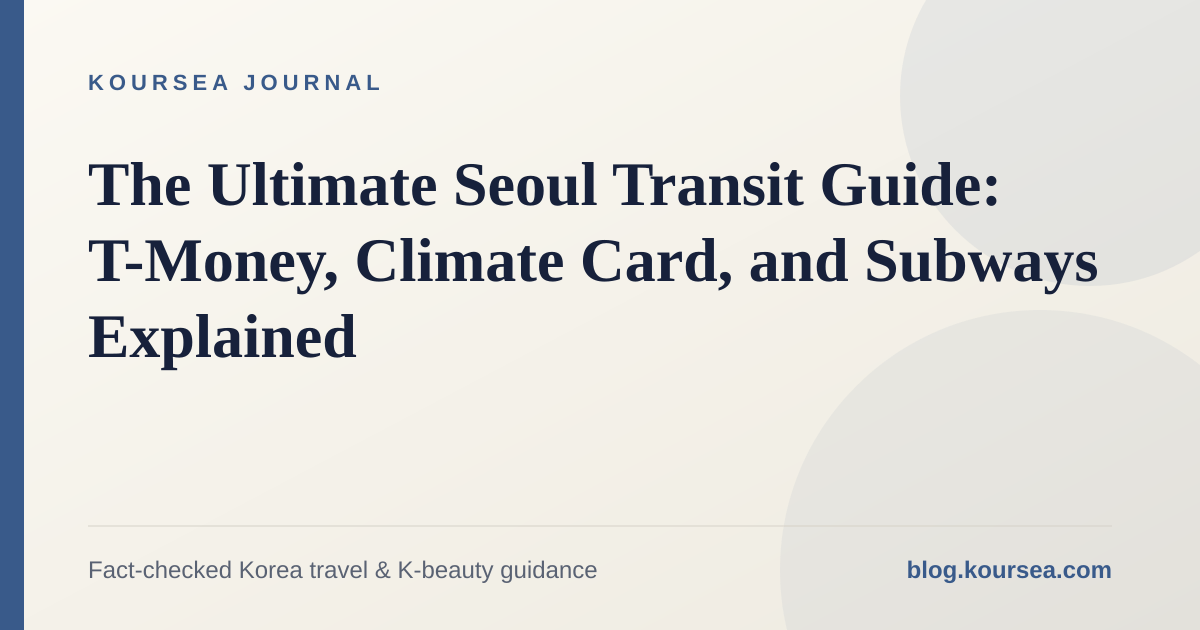
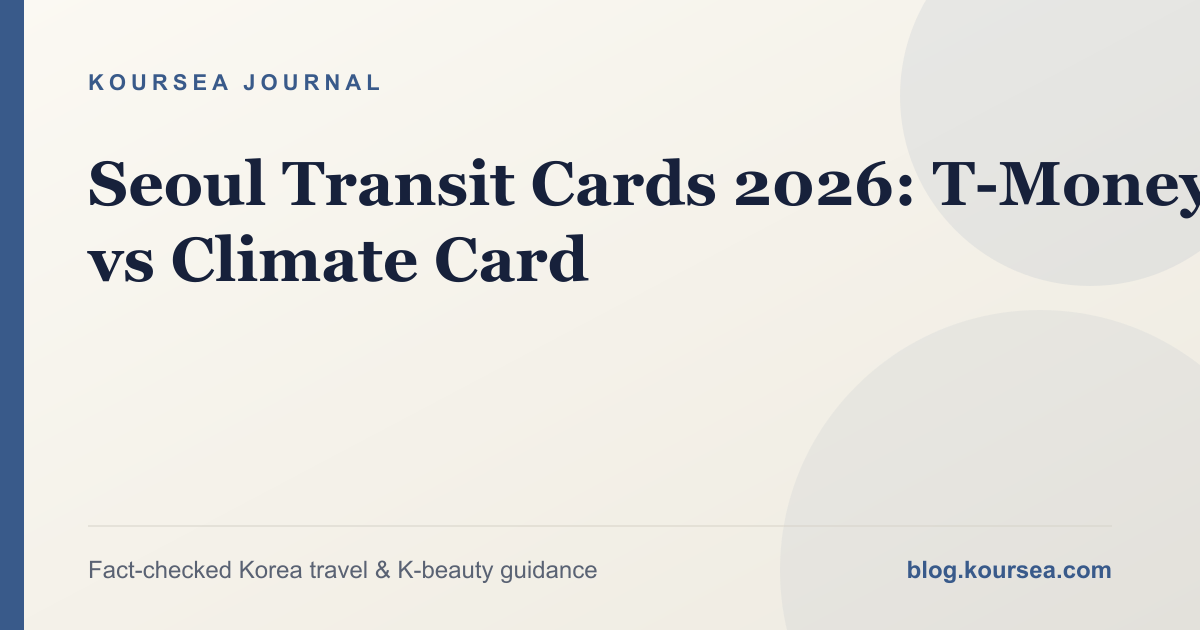
Expand airport and Seoul transit guides (#82)

diff --git a/src/content/posts/seoul-subway-transit-card-guide.md b/src/content/posts/seoul-subway-transit-card-guide.md
@@ -1,8 +1,8 @@
 ---
-title: "The Ultimate Seoul Transit Guide: T-Money, Climate Card, and Subways Explained"
-description: "Compare T-Money, Seoul Climate Card and WOWPASS, then learn transfer rules, express trains and practical subway etiquette for a smoother trip."
+title: "Seoul Transit Cards 2026: T-Money vs Climate Card"
+description: "Compare T-Money, the Seoul Climate Card tourist pass and WOWPASS, including 2026 prices, coverage limits, overseas-card loading and transfer rules."
 pubDate: 2026-09-03T10:25:49Z
-updatedDate: 2026-09-03T10:25:49Z
+updatedDate: 2026-09-28
 tags:
   - Seoul Travel
   - Public Transit
@@ -13,23 +13,21 @@ author: "Koursea Editorial"
 
 faq:
   - question: "What is the basic difference between T-Money and the Climate Card?"
-    answer: "The guide presents standard T-Money as a general transit card and the Climate Card as a tourist pass option for eligible Seoul public-transport use; check the guide's comparison before choosing."
-  - question: "How do free transfers work in Seoul?"
-    answer: "The guide calls free transfers the golden rule of the Seoul system and advises tapping correctly and following the transfer rules rather than exiting the network unnecessarily."
+    answer: "T-Money is a stored-value card used trip by trip across a wider network. The tourist Climate Card is a fixed-period pass for eligible transport within its published Seoul coverage, so it is useful only when your route stays inside that service area."
+  - question: "How do transfer discounts work in Seoul?"
+    answer: "Tap out and board the next eligible service within 30 minutes, or 60 minutes from 9 PM to 7 AM. Up to four transfers can qualify, but distance charges and the highest applicable base fare may still apply."
   - question: "How can I avoid boarding the wrong subway direction?"
     answer: "Use station numbers and platform signs, check fast-transfer markings, and ask staff through the help bell if you realize you are on the wrong side of the gates."
   - question: "Can I board with an open drink?"
-    answer: "The guide says uncovered hot coffee, cups with straws, and unsealed food containers are barred from public buses, so finish or seal drinks before boarding."
+    answer: "Seoul's open-container restriction cited here applies to public buses. Finish or securely seal drinks before boarding and follow any additional operator instructions on the subway."
 coverImage: "/images/blog/seoul-subway-transit-guide.jpg"
 ---
 
-# The Ultimate Seoul Transit Guide: T-Money, Climate Card, and Subways Explained
+# Seoul Transit Cards 2026: T-Money vs Climate Card
 
-Seoul boasts one of the most efficient, punctual, and cleanest public transportation systems in the world. With over 20 subway lines, hundreds of interconnected bus routes, and regional rail networks connecting directly into neighboring cities, getting around without a car is exceptionally easy.
+Seoul's subway and bus network is extensive, but the payment products do different jobs. A T-Money card charges each ride, the short-term Climate Card covers eligible Seoul transport for a fixed period, and WOWPASS combines a payment wallet with a separate T-Money transit balance. Choosing from the logo alone can leave you with the wrong coverage or an empty transit balance.
 
-However, international visitors frequently run into payment bottlenecks, confusion between competing transit pass systems, and strict transfer rules.
-
-Here is the definitive guide to conquering Seoul’s public transit network seamlessly.
+This guide uses Seoul Metropolitan Government information checked on September 28, 2026. Fares, eligible lines, vending-machine payment methods, and pass products can change, so verify the linked live pages before travel.
 
 Once you know which card to get, Koursea's Transit Card Cheat Sheet and Subway Direction Checker give you the fast, no-explanation version for when you're actually at the gate — no login required.
 
@@ -39,28 +37,44 @@ Once you know which card to get, Koursea's Transit Card Cheat Sheet and Subway D
 
 Before boarding your first train, you must pick the right payment mechanism. Credit cards without local Korean transit chips cannot simply be tapped at turnstiles.
 
-- **Standard T-Money Card:**
+- **Standard T-Money card:**
   - **Best For:** Most short-stay tourists planning a flexible itinerary across multiple cities (Seoul, Busan, Jeju).
-  - **How It Works:** A reloadable prepaid transit card. The physical card costs around 3,000 to 5,000 KRW. You must reload it using **physical Korean cash** at convenience stores (CU, GS25, 7-Eleven) or station vending machines.
-  - **Coverage:** Valid nationwide on subways, city buses, and even inside taxis.
-- **Climate Card (기후동행카드 - Tourist Pass):**
+  - **How It Works:** A reloadable stored-value transit card. Card prices vary by design and seller, and value is deducted by use. Seoul's guide lists convenience stores and metropolitan-area station service centers as retail locations.
+  - **Coverage:** Widely used on participating subways and buses and at other T-Money merchants, but the exact route or vehicle must still accept it.
+- **Climate Card short-term tourist pass (기후동행카드):**
   - **Best For:** Heavy transit users staying inside Seoul for 1 to 7 days.
-  - **Options:** Available in 1-day (5,000 KRW), 2-day (8,000 KRW), 3-day (10,000 KRW), and 5-day (15,000 KRW) versions.
-  - **Limitation:** Only valid on Seoul-area subways and Seoul municipal buses. It is **not** valid on the Shinbundang Line or transit systems outside the Seoul capital boundary (such as Incheon or Suwon).
+  - **Options:** The official prices are 1 day ₩5,000, 2 days ₩8,000, 3 days ₩10,000, 5 days ₩15,000, and 7 days ₩20,000. The physical card is purchased separately.
+  - **Important timing rule:** The short-term validity period begins when the card is charged; it cannot be loaded in advance for a later travel date.
+  - **Limitation:** Coverage is route-specific. It does not simply mean every train or bus inside the capital region is included. Use the official coverage search for airport routes, privately operated lines, and trips extending beyond Seoul.
 - **WOWPASS:**
-  - **Best For:** Travelers wanting an all-in-one debit card with an integrated T-Money chip. You can exchange foreign currency directly into KRW via dedicated airport/hotel kiosks, but note that the T-Money transit balance must still be reloaded separately with cash.
+  - **Best For:** Travelers wanting a prepaid payment wallet and an integrated T-Money function on one physical card.
+  - **Important:** The payment wallet and T-Money transit value are separate balances. Loading the payment wallet does not automatically fund the transit side.
+
+> **2026 product change:** Seoul discontinued recharging the old 30-day prepaid Climate Card after August 31, 2026 and launched a resident-focused Climate Pass. The short-term 1-, 2-, 3-, 5-, and 7-day tourist passes continue. Visitors should not confuse the resident Climate Pass with the tourist short-term pass.
+
+## Quick decision table
+
+| Your trip | Usually the better starting point | Why |
+| --- | --- | --- |
+| Seoul plus Busan, Jeju, Incheon, or Suwon | T-Money | Stored value is more flexible across regions and operators |
+| Several eligible Seoul rides per day for 1–7 days | Climate Card short-term pass | Fixed-period travel can be convenient if every planned route is covered |
+| Shopping payment wallet plus transit on one card | WOWPASS with T-Money balance | One physical card, but two balances that must be managed separately |
+| One or two subway rides | T-Money or single-journey tickets | A time pass may not recover its purchase price |
+
+List your airport transfer and every out-of-Seoul day before choosing. A pass that fails on one expensive route can erase the expected savings.
 
 For Apple Pay acceptance, foreign-card kiosk declines, and the currency-exchange differences between WOWPASS and Namane, continue with our [Korea Payment Mechanics Guide](/posts/korea-payment-wowpass-vs-tmoney-applepay-2026/).
 
 ---
 
-## 2. The Golden Rule of Free Transfers
+## 2. How Transfer Discounts Work
 
-Seoul uses an integrated distance-based fare structure. You can transfer between subways and buses up to **4 times** without paying a new base fare, provided you follow these rules:
+Seoul uses an integrated distance-based fare structure. The official rules allow up to **four transfers, or five boardings**, when the trip and card use qualify. This is a transfer discount, not a promise that every next ride costs zero; distance charges and the highest applicable base fare can still apply.
 
 1. **Always Tag In and Tag Out:** Tap your card when entering the subway or boarding a bus, and **always tap again when exiting**. Forgetting to tap out on a bus cancels your transfer discount and charges the maximum distance penalty.
 2. **The 30-Minute Window:** Your transfer must occur within **30 minutes** of tapping out from the previous vehicle (extended to 60 minutes between 9:00 PM and 7:00 AM).
 3. **No Same-Route Transfers:** Transferring between two buses of the exact same route number does not qualify as a discounted transfer.
+4. **Use One Card Consistently:** The system must be able to connect the rides. Multi-passenger handling has additional restrictions, and subway transfers do not support multi-passenger boarding in the same way as buses.
 
 ---
 
@@ -71,10 +85,28 @@ Seoul uses an integrated distance-based fare structure. You can transfer between
 - **Help Bell for Wrong Platforms:** If you swipe your card and realize you entered the wrong platform direction on an older line without an internal overpass, look for the wheelchair gate. Press the **Help Bell** on the side; station staff will immediately unlock the gate so you can cross over without being charged twice.
 - **Express Trains vs. All-Stop Trains:** Lines 9 and the AREX (Airport Railroad) operate both Express (급행) and All-Stop (일반) trains on identical tracks. Check the digital overhead monitors—Express trains skip minor stations, which can cut travel times in half.
 
+Seoul's official fare page lists the adult subway card base fare at ₩1,550 as of June 28, 2025, with distance surcharges after the base range. Treat that as a dated reference, not a guaranteed future fare. Check the station display or official page for the fare on your travel date.
+
 ---
 
 ## 4. Key Rules of Etiquette
 
 - **Reserved Seating:** The brightly marked seats at the ends of subway cars are strictly reserved for the elderly, disabled, and pregnant women. Even on packed trains, locals leave these seats open.
 - **Keep Luggage Secure:** When traveling with rolling suitcases during rush hour (8:00–9:00 AM and 6:00–7:00 PM), keep bags tucked tightly between your feet to allow smooth passenger movement.
-- **No Open Beverages:** By municipal regulation, passengers holding uncovered hot coffees, cups with straws, or unsealed food containers are barred from boarding public buses. Finish your drink before hopping on.
+- **No Open Beverages on buses:** Seoul's restriction cited here applies to public buses: drivers can refuse uncovered hot drinks, cups with straws, and other spill-prone open containers. Finish or securely seal the drink before boarding.
+
+## Buying and loading with an overseas card
+
+Do not assume every machine accepts the same payment method. Seoul says physical Climate Cards and short-term passes can be purchased or recharged with international credit or debit cards at supported new station kiosks. That does not mean every T-Money reload point, convenience store, or older machine accepts an overseas card.
+
+Keep a small Korean-won cash backup until your transit card is working. If a machine rejects the card, look for the international-card logo, try an official station service point, or ask staff rather than repeatedly triggering bank fraud controls.
+
+## Official sources
+
+Checked on September 28, 2026:
+
+- [Seoul Metropolitan Government: Climate Card prices, coverage, and purchase rules](https://english.seoul.go.kr/policy/transportation/climate-card/)
+- [Seoul Metropolitan Government: 2026 Climate Card and Climate Pass transition](https://english.seoul.go.kr/smg-steps-up-outreach-ahead-of-climate-pass-launch-on-september-1-encouraging-early-card-conversion/)
+- [Seoul Metropolitan Government: public transportation and tourist card guidance](https://english.seoul.go.kr/service/movement/public-transportation/)
+- [Seoul Metropolitan Government: transfer rules and accepted card types](https://english.seoul.go.kr/policy/transportation/modes-of-transport/)
+- [Seoul Metropolitan Government: subway fares](https://english.seoul.go.kr/policy/transportation/modes-of-transport/subway/)

diff --git a/src/content/posts/incheon-airport-terminal-1-vs-terminal-2-airlines.md b/src/content/posts/incheon-airport-terminal-1-vs-terminal-2-airlines.md
@@ -1,8 +1,8 @@
 ---
-title: "Incheon Airport Terminal 1 vs Terminal 2: Airline Check Guide"
+title: "Incheon Airport T1 vs T2: Check Your Airline"
 description: "Check whether your Incheon Airport flight uses Terminal 1, Terminal 2, or the Concourse, and avoid codeshare and transfer mistakes."
 pubDate: 2026-09-09
-updatedDate: 2026-09-09
+updatedDate: 2026-09-28
 tags: ["Incheon Airport", "Terminal 1", "Terminal 2", "Airlines", "Airport Planning"]
 canonicalUrl: "https://blog.koursea.com/posts/incheon-airport-terminal-1-vs-terminal-2-airlines/"
 author: "Koursea Editorial"
@@ -13,19 +13,19 @@ faq:
   - question: "Which carriers does the guide list for Terminal 2?"
     answer: "It lists Korean Air, Asiana Airlines, Jin Air, Air Seoul, Air Busan, Delta Air Lines, and other carriers shown in its current terminal overview."
   - question: "Which carriers does the guide list for Terminal 1?"
-    answer: "It lists Jeju Air, T'way Air, Eastar Jet, Air Premia, PARATA AIR, and other listed foreign carriers in its current overview."
+    answer: "The current official overview lists Jeju Air, Trinity Airways, Eastar Jet, Air Premia, PARATA AIR, and other foreign carriers, but travelers must still verify the exact operating flight."
   - question: "What is the Concourse?"
     answer: "The guide explains that Concourse gates are reached from Terminal 1 by shuttle train and that the airport says returning is not allowed after boarding it."
 ---
 
-# Incheon Airport Terminal 1 vs Terminal 2: Airline Check Guide
+# Incheon Airport T1 vs T2: Check Your Airline
 
 Do not choose an Incheon Airport terminal from the airline name alone. The airport warns that codeshares and other operating circumstances can change the actual arrival or departure terminal. Your e-ticket and the airport's live flight search are the final checks.
 
 ## Key takeaways
 
 - Terminal 2 currently handles Korean Air, Asiana Airlines, Jin Air, Air Seoul, Air Busan, Delta Air Lines, and other listed carriers.
-- Terminal 1 currently handles Jeju Air, T'way Air, Eastar Jet, Air Premia, PARATA AIR, and other listed foreign carriers.
+- Terminal 1 currently handles Jeju Air, Trinity Airways, Eastar Jet, Air Premia, PARATA AIR, and other listed foreign carriers.
 - Codeshares can use a different terminal from the one you expect.
 - Concourse gates are reached from Terminal 1 by shuttle train, and the airport says return is not allowed after boarding it.
 
@@ -44,11 +44,11 @@ The airport's [departure procedure page](https://www.airport.kr/ap_en/1413/subvi
 
 ### Terminal 2
 
-The official airport guide currently lists Korean Air, Asiana Airlines, Jin Air, Air Seoul, Air Busan, Delta Air Lines, and other airlines at Terminal 2. This is a planning overview, not a substitute for checking your flight number.
+The official airport guide currently lists Korean Air, Asiana Airlines, Jin Air, Air Seoul, Air Busan, Delta Air Lines, and other airlines at Terminal 2. This is a planning overview, not a substitute for checking your flight number. Airline moves can make an older blog post, saved screenshot, or taxi-driver assumption wrong even when it was accurate on a previous trip.
 
 ### Terminal 1
 
-The same guide currently lists Jeju Air, T'way Air, Eastar Jet, Air Premia, PARATA AIR, and other foreign airlines at Terminal 1. Some Terminal 1 passengers board through the separate Concourse.
+The same guide currently lists Jeju Air, Trinity Airways, Eastar Jet, Air Premia, PARATA AIR, and other foreign airlines at Terminal 1. Some Terminal 1 passengers board through the separate Concourse.
 
 The airport's [airline information directory](https://www.airport.kr/ap_en/1408/subview.do) can be used to check an airline listing, but the operating flight remains decisive for a codeshare.
 
@@ -64,6 +64,25 @@ The official departure guide maps gates 1–50 to Terminal 1, gates 101–132 to
 
 Follow the gate and transfer signs after completing the required departure steps. Do not ride the shuttle merely to look around.
 
+## Terminal, concourse, and gate are different checks
+
+Your terminal determines where you arrive, check in, and usually clear security. Your gate determines the final boarding location. A Concourse gate does not mean that you should ask a driver to drop you at a third passenger terminal: the airport's departure guide routes Concourse passengers through Terminal 1 and then onto the internal shuttle train after the required departure process.
+
+Use this sequence:
+
+1. Confirm **Terminal 1 or Terminal 2** before choosing an airport bus, train exit, taxi drop-off, or meeting point.
+2. Confirm the **check-in counter** on the airport display after arrival.
+3. Confirm the **gate** after check-in and again before boarding.
+4. Follow the internal Concourse signs only if your boarding pass or airport display sends you there.
+
+## What to do if you reach the wrong terminal
+
+Do not rush into security. Recheck the operating flight and ask an airport information desk to confirm the correct terminal first. Incheon Airport publishes inter-terminal shuttle routes and shows Airport Railroad stations in the B1 transportation centers of both terminals. The correct choice depends on the current timetable, your baggage, mobility needs, and how close you are to check-in closing.
+
+The airport's current T1-to-T2 shuttle information directs passengers to the stop in front of Gate 8 on the third floor of Terminal 1 and publishes a changing timetable. Treat the posted airport sign and live timetable as authoritative rather than relying on an old interval copied into a travel post.
+
+If time is short, contact the operating airline while moving and tell staff that you are at the wrong terminal. A scheduled departure time is not the check-in or bag-drop deadline.
+
 ## Before leaving Seoul
 
 1. Check the e-ticket for terminal and operating flight number.
@@ -74,3 +93,12 @@ Follow the gate and transfer signs after completing the required departure steps
 
 Terminal and counter information can change. Verify with the airport and airline on the day of travel.
 
+## Official sources
+
+Checked on September 28, 2026:
+
+- [Incheon Airport transfer guide and current terminal overview](https://www.airport.kr/ap_en/1453/subview.do)
+- [Incheon Airport live flight search](https://www.airport.kr/ap_en/1407/subview.do)
+- [Incheon Airport airline directory](https://www.airport.kr/ap_en/1408/subview.do)
+- [Incheon Airport inter-terminal shuttle route](https://www.airport.kr/ap_en/6605/subview.do)
+- [Incheon Airport Railroad station guide](https://www.airport.kr/ap_en/1511/subview.do)

diff --git a/src/content/posts/incheon-airport-lounge-access-reservation-guide.md b/src/content/posts/incheon-airport-lounge-access-reservation-guide.md
@@ -1,8 +1,8 @@
 ---
-title: "Incheon Airport Lounge Guide: Access, Booking & Terminal Checks"
+title: "Incheon Airport Lounges: T1/T2 Access Guide"
 description: "Use Incheon Airport's official directory to distinguish airline, paid and public lounges, confirm your terminal, and verify access before departure."
 pubDate: 2026-09-09
-updatedDate: 2026-09-09
+updatedDate: 2026-09-28
 tags: ["Incheon Airport", "Airport Lounges", "Terminal 1", "Terminal 2", "Airport Planning"]
 canonicalUrl: "https://blog.koursea.com/posts/incheon-airport-lounge-access-reservation-guide/"
 author: "Koursea Editorial"
@@ -16,9 +16,11 @@ faq:
     answer: "Check the legal provider name, contact channel, terminal and meeting point, included services, passenger and baggage limits, cancellation terms, and any passport or flight-detail requirements."
   - question: "Are terminal and concourse lounges interchangeable?"
     answer: "No. The guide treats Terminal 1, Terminal 2, and the Concourse as separate areas, so confirm the correct location before paying."
+  - question: "Does Incheon Airport have free rest areas?"
+    answer: "Yes. The official airport directory separately lists public lounges, nap zones, refresh zones, and shower rooms. They are not the same as a paid or airline lounge, and their location and operating status should be checked live."
 ---
 
-# Incheon Airport Lounge Guide: Access, Booking & Terminal Checks
+# Incheon Airport Lounges: T1/T2 Access Guide
 
 Incheon Airport has airline lounges, independent paid lounges, transfer rest areas, and public lounge spaces. They are not interchangeable, and the airport directory does not promise that every lounge accepts walk-ins or advance reservations. Confirm your terminal first, then verify access with the named lounge or your airline.
 
@@ -27,6 +29,7 @@ Incheon Airport has airline lounges, independent paid lounges, transfer rest are
 - Check whether your flight uses Terminal 1, Terminal 2, or the Concourse.
 - Distinguish an airline lounge from a paid lounge and a free public rest area.
 - Confirm eligibility or paid-entry rules with the lounge operator before travel.
+- Check whether the facility is before security, after security, or limited to transfer passengers.
 - Do not buy an unofficial "VIP" or "CIP" package based only on the label.
 
 ## Which lounge type are you looking for?
@@ -39,6 +42,16 @@ Incheon Airport has airline lounges, independent paid lounges, transfer rest are
 | VIP/CIP assistance | Nothing should be inferred from the marketing label alone | Provider identity, included escort steps, meeting point, cancellation terms, and airport authorization |
 
 The [Incheon Airport facilities directory](https://www.airport.kr/ap_en/1536/subview.do) is the starting point for current locations and operating information. It lists facilities separately for Terminal 1, Terminal 2, and the Concourse.
+
+## Before security or after security?
+
+The floor number alone does not tell you whether you can reach a facility. Read the directory's location wording:
+
+- **Public area / landside:** reachable before departure security, subject to the facility's own admission rules.
+- **Duty-free or transit zone / airside:** normally reachable only after the required departure or transfer process.
+- **Transfer lounge:** intended for passengers following the airport's international transfer route; arriving passengers who enter Korea cannot assume they can walk back into it.
+
+Confirm this distinction before purchasing access. A lounge shown near your check-in hall can still be inaccessible from your actual passenger flow, and passengers departing from different terminals cannot use one another's airside lounges simply because both facilities are at Incheon Airport.
 
 ## How to verify lounge access before departure
 
@@ -53,6 +66,20 @@ The [Incheon Airport facilities directory](https://www.airport.kr/ap_en/1536/sub
 The official [airport information and services list](https://www.airport.kr/ap_en/1546/subview.do) shows different lounges at different gate areas. A listing for one terminal does not establish access from another terminal, and an airside facility cannot be treated as a landside meeting place.
 
 Do not choose a lounge before confirming your terminal. Security and immigration routing can make an apparently nearby facility inaccessible from your departure area.
+
+## Free rest areas are not paid lounges
+
+The airport's official information list separately publishes facilities such as public lounges, nap zones, refresh or relax zones, and shower rooms. These can be useful when you only need seating, a quiet break, or a place to freshen up, but they should not be described as substitutes for every paid-lounge benefit.
+
+Before relying on one, verify:
+
+- whether it is in Terminal 1, Terminal 2, or the Concourse;
+- whether it is before or after security;
+- the current operating hours and any cleaning closure;
+- whether showers, towels, toiletries, food, charging, or baggage storage are actually included;
+- whether the facility is temporarily full or unavailable.
+
+The directory currently lists public lounges and nap zones in Terminal 2, and refresh or relax zones in Terminal 1. Facility names and operating details can change, so use the live directory rather than a saved social-media list.
 
 ## What does VIP or CIP mean?
 
@@ -74,3 +101,10 @@ Complete check-in, baggage drop, security, and immigration with enough margin be
 
 Facility hours and access rules can change. Reconfirm them through the official airport directory and the lounge or airline before departure.
 
+## Official sources
+
+Checked on September 28, 2026:
+
+- [Incheon Airport convenience, lounge, hotel, and rest directory](https://www.airport.kr/ap_en/1536/subview.do)
+- [Incheon Airport information and services list](https://www.airport.kr/ap_en/1546/subview.do)
+- [Incheon Airport transfer guide](https://www.airport.kr/ap_en/1453/subview.do)
